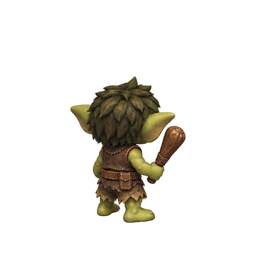
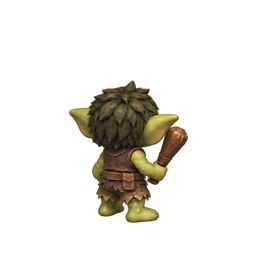
Simplify goblin and bat faces using user reference

Changed region(s): [[0.25, 0.2812, 0.75, 0.875]]

diff --git a/fushigi-monsters-v1/preview.html b/fushigi-monsters-v1/preview.html
@@ -5,14 +5,14 @@
 *{box-sizing:border-box}body{margin:0;background:#10171e;color:#e8edf0;font:15px/1.65 system-ui,sans-serif}main{max-width:1100px;margin:auto;padding:24px 16px 50px}h1{font-size:24px;margin:0 0 6px}h2{font-size:19px}p{color:#b7c5ce;margin:8px 0 18px}a{color:#8ad4e8}button,select{font:inherit;background:#243340;color:inherit;border:1px solid #526573;border-radius:7px;padding:9px 12px;cursor:pointer}button[aria-pressed=true]{background:#776232;border-color:#d4b568}.controls{display:flex;gap:10px;align-items:center;flex-wrap:wrap;margin:15px 0}.directions{display:flex;gap:5px;flex-wrap:wrap}.stageWrap{overflow-x:auto;max-width:100%;border-radius:10px}canvas{display:block;width:960px;max-width:none;height:350px;border-radius:10px;border:1px solid #3b4a54}.panel{background:#19232c;border:1px solid #354550;border-radius:12px;padding:16px;margin:18px 0}.grid{display:grid;grid-template-columns:repeat(4,minmax(0,1fr));gap:8px}.cell{background:#293540;border-radius:8px;text-align:center;overflow:hidden}.cell img{display:block;width:100%;height:auto}.cell span{display:block;font-size:12px;padding:3px 0 8px}.small{font-size:13px}.status{color:#dfc584}.tileSize{width:65px}label{display:flex;gap:7px;align-items:center}@media(max-width:500px){main{padding:17px 10px}h1{font-size:21px}.panel{padding:10px}.controls{gap:7px}.grid{gap:6px;grid-template-columns:repeat(2,minmax(0,1fr))}button,select{padding:8px}.cell span{font-size:10px}}
 </style>
 <main>
-<div class="status small">待機基準絵の初版 · 本編統合前</div><h1>モンスター、最初の3種</h1>
+<div class="status small">顔を簡略化した修正版 · 本編統合前</div><h1>モンスター、最初の3種</h1>
 <p>スライム・ゴブリン・コウモリ。承認済み主人公と同じカメラで、大きさと8方向の見た目を確認できます。</p>
-<div class="controls"><label>背景 <select id="theme"><option value="limestone">鍾乳洞</option><option value="forest">樹林</option><option value="ruins">風化遺跡</option><option value="ice">氷晶洞</option><option value="volcano">火山洞</option></select></label><label>表示 <select id="zoom"><option value="1">実ゲーム相当（1マス64px）</option><option value="2">2倍</option></select></label><button id="rotate" aria-pressed="false">方向を自動切替</button></div>
+<div class="controls"><label>顔 <select id="faceStyle"><option value="current">修正版：簡略化した顔</option><option value="before">初版：色付きの虹彩</option></select></label><label>背景 <select id="theme"><option value="limestone">鍾乳洞</option><option value="forest">樹林</option><option value="ruins">風化遺跡</option><option value="ice">氷晶洞</option><option value="volcano">火山洞</option></select></label><label>表示 <select id="zoom"><option value="1">実ゲーム相当（1マス64px）</option><option value="2">2倍</option></select></label><button id="rotate" aria-pressed="false">方向を自動切替</button></div>
 <div id="dirs" class="directions"></div>
 <p class="small">S＝手前、N＝奥、E＝右、W＝左。自動切替は静止画の向き比較です。歩行・攻撃のアニメーションは次の工程です。</p>
 <div class="stageWrap"><canvas id="stage" width="960" height="350" aria-label="洞窟の床に主人公とモンスター3種を並べた比較"></canvas></div><p class="small">スマートフォンでは左右にスワイプして比較できます。表示サイズは縮小していません。</p><p id="status" class="small" role="status">画像を読み込んでいます…</p>
 <section class="panel"><div class="controls"><h2>8方向の拡大表示</h2><select id="kind"><option value="slime">スライム</option><option value="goblin">ゴブリン</option><option value="bat">コウモリ</option></select></div><div id="contact" class="grid"></div></section>
-<p class="small">スライム・コウモリは SE→SW、E→W、NE→NW を反転して制作コストを削減。ゴブリンは棍棒を右手に保つため8方向を個別に制作。床と主人公は既存の承認済み素材です。</p>
+<p class="small">修正版はゴブリン・コウモリの色付き虹彩を黒い楕円の目にし、口・鼻・牙を少ない形に整理しました。スライムは初版を維持しています。</p><p class="small">スライム・コウモリは SE→SW、E→W、NE→NW を反転して制作コストを削減。ゴブリンは棍棒を右手に保つため8方向を個別に制作。床と主人公は既存の承認済み素材です。</p>
 <p class="small"><a href="../index.html">現在の本編</a> · <a href="README.md">制作記録</a> · <a href="monsters.json">スプライト情報</a></p>
 </main>
 <script>
@@ -20,7 +20,7 @@
 const D=['S','SW','W','NW','N','NE','E','SE'],names={slime:'スライム',goblin:'ゴブリン',bat:'コウモリ'},imgs={},canvas=document.querySelector('#stage'),g=canvas.getContext('2d');
 let face='SE',ready=false,auto=false,last=0,error=null;
 const load=path=>new Promise((resolve,reject)=>{const im=new Image();im.onload=()=>resolve(im);im.onerror=()=>reject(Error('画像を読み込めません: '+path));im.src=path;});
-function grid(){document.querySelector('#contact').replaceChildren(...D.map(d=>{const el=document.createElement('div');el.className='cell';const im=new Image();im.src='assets/'+kind.value+'/'+d+'.png';im.alt=names[kind.value]+' '+d;const label=document.createElement('span');label.textContent=d+((kind.value!=='goblin'&&['SW','W','NW'].includes(d))?' · 反転':'');el.append(im,label);return el;}));}
+function grid(){document.querySelector('#contact').replaceChildren(...D.map(d=>{const el=document.createElement('div');el.className='cell';const im=new Image();im.src=(faceStyle.value==='before'?'before-face-v2/':'assets/')+kind.value+'/'+d+'.png';im.alt=names[kind.value]+' '+d;const label=document.createElement('span');label.textContent=d+((kind.value!=='goblin'&&['SW','W','NW'].includes(d))?' · 反転':'');el.append(im,label);return el;}));}
 function buttons(){document.querySelector('#dirs').replaceChildren(...D.map(d=>{const b=document.createElement('button');b.textContent=d;b.setAttribute('aria-pressed',String(d===face));b.onclick=()=>{face=d;buttons();draw();};return b;}));}
 function draw(){
  if(!ready)return;
@@ -30,15 +30,15 @@ function draw(){
  for(let y=70;y<330;y+=pitch)for(let x=0;x<960;x+=ts)g.drawImage(imgs[id],x,y,ts,pitch);
  const baseline=260,positions=[160,380,590,800],entries=[['hero','主人公'],...Object.entries(names)];
  entries.forEach(([k,n],i)=>{const x=positions[i];g.fillStyle='rgba(0,0,0,.3)';g.beginPath();g.ellipse(x,baseline,ts*(k==='slime'?.34:.25),ts*.09,0,0,Math.PI*2);g.fill();
- const scale=ts*1.5/192;g.drawImage(imgs[k+':'+face],x-128*scale,baseline-224*scale,256*scale,256*scale);
+ const scale=ts*1.5/192;g.drawImage(imgs[(k==='hero'?'hero':(faceStyle.value==='before'?'before-':'')+k)+':'+face],x-128*scale,baseline-224*scale,256*scale,256*scale);
  });g.restore();
  entries.forEach(([k,n],i)=>{g.fillStyle='#ecf0f2';g.font='16px system-ui';g.textAlign='center';g.fillText(n,positions[i],327);});
  g.textAlign='left';g.fillStyle='#deca94';g.font='14px system-ui';g.fillText(face+' / 1マス '+ts+'px / 主人公の高さ '+(ts*1.5)+'px',20,32);
 }
-const theme=document.querySelector('#theme'),zoom=document.querySelector('#zoom'),kind=document.querySelector('#kind');
-theme.onchange=zoom.onchange=draw;kind.onchange=grid;document.querySelector('#rotate').onclick=()=>{auto=!auto;document.querySelector('#rotate').setAttribute('aria-pressed',String(auto));};
+const faceStyle=document.querySelector('#faceStyle'),theme=document.querySelector('#theme'),zoom=document.querySelector('#zoom'),kind=document.querySelector('#kind');
+faceStyle.onchange=()=>{grid();draw();};theme.onchange=zoom.onchange=draw;kind.onchange=grid;document.querySelector('#rotate').onclick=()=>{auto=!auto;document.querySelector('#rotate').setAttribute('aria-pressed',String(auto));};
 buttons();grid();
-Promise.all([...Object.keys(names),'hero'].flatMap(k=>D.map(async d=>{imgs[k+':'+d]=await load(k==='hero'?'../fushigi-direction-base/assets/hero-base/'+d+'.png':'assets/'+k+'/'+d+'.png');})).concat(['forest','limestone','ruins','ice','volcano'].map(async id=>{imgs[id]=await load('../assets/dungeon/locations-v1/'+id+'/floor1.webp');}))).then(()=>{ready=true;document.querySelector('#status').textContent='3種 × 8方向を読み込みました。主人公の足元と同じ原点で表示しています。';draw();}).catch(e=>{error=e.message;document.querySelector('#status').textContent=error;console.error(e);});
+Promise.all([...Object.keys(names),...Object.keys(names).map(k=>'before-'+k),'hero'].flatMap(k=>D.map(async d=>{imgs[k+':'+d]=await load(k==='hero'?'../fushigi-direction-base/assets/hero-base/'+d+'.png':(k.startsWith('before-')?'before-face-v2/'+k.slice(7):'assets/'+k)+'/'+d+'.png');})).concat(['forest','limestone','ruins','ice','volcano'].map(async id=>{imgs[id]=await load('../assets/dungeon/locations-v1/'+id+'/floor1.webp');}))).then(()=>{ready=true;document.querySelector('#status').textContent='3種 × 8方向を読み込みました。主人公の足元と同じ原点で表示しています。';draw();}).catch(e=>{error=e.message;document.querySelector('#status').textContent=error;console.error(e);});
 function tick(t){if(auto&&t-last>850){last=t;face=D[(D.indexOf(face)+1)%8];buttons();draw();}requestAnimationFrame(tick);}requestAnimationFrame(tick);
 window.MonsterReview={get ready(){return ready;},get error(){return error;},setDirection(d){if(!D.includes(d))throw Error(d);face=d;buttons();draw();}};
 </script></html>

diff --git a/fushigi-monsters-v1/build.py b/fushigi-monsters-v1/build.py
@@ -6,8 +6,8 @@ P=Path(__file__).resolve().parent
 D=['S','SW','W','NW','N','NE','E','SE']
 CONFIG={
  'slime':dict(name='スライム',cols=5,rows=1,dirs=['S','SE','E','NE','N'],height=92,anchor=224),
- 'goblin':dict(name='ゴブリン',cols=4,rows=2,dirs=D,height=154,anchor=224),
- 'bat':dict(name='コウモリ',cols=5,rows=1,dirs=['S','SE','E','NE','N'],height=112,anchor=196,cuts=[0,490,930,1250,1700,2172]),
+ 'goblin':dict(name='ゴブリン',cols=4,rows=2,dirs=D,height=154,anchor=224,source='faces-v2/goblin.png'),
+ 'bat':dict(name='コウモリ',cols=5,rows=1,dirs=['S','SE','E','NE','N'],height=112,anchor=196,cuts=[0,501,940,1235,1677,2172],source='faces-v2/bat.png'),
 }
 def sha(p):return hashlib.sha256(p.read_bytes()).hexdigest()
 def clean(im):
@@ -28,14 +28,14 @@ def clean(im):
     from PIL import ImageChops
     a=ImageChops.multiply(a,mask.filter(MaxFilter(5)));im.putalpha(a)
     return im
-meta={'version':1,'status':'idle-base-review; not approved; not integrated','frameSize':256,'origin':[128,224],'heroHeight':192,'directions':D,'monsters':{}}
+meta={'version':2,'status':'simplified-monster-face-review; not approved; not integrated','frameSize':256,'origin':[128,224],'heroHeight':192,'directions':D,'monsters':{}}
 for kind,cfg in CONFIG.items():
-    src=P/'source-art'/f'{kind}.png';sheet=Image.open(src).convert('RGBA');cells={}
+    src=P/'source-art'/cfg.get('source',f'{kind}.png');sheet=Image.open(src).convert('RGBA');cells={}
     for i,d in enumerate(cfg['dirs']):
         x=i%cfg['cols'];y=i//cfg['cols'];w,h=sheet.size
         cuts=cfg.get('cuts');cell=sheet.crop((cuts[x] if cuts else round(x*w/cfg['cols']),round(y*h/cfg['rows']),cuts[x+1] if cuts else round((x+1)*w/cfg['cols']),round((y+1)*h/cfg['rows'])))
         cell=clean(cell);bbox=cell.getchannel('A').point(lambda a:255 if a>=48 else 0).getbbox()
-        if kind=='goblin' and d=='SE':
+        if kind=='goblin' and d=='SE' and not cfg.get('source'):
             # Regenerated SE right-hand fix at higher resolution. Normalize once to
             # the original sheet's physical height before the shared species scale.
             fixed=clean(Image.open(P/'source-art'/'goblin-SE-fixed.png').convert('RGBA'))
@@ -52,13 +52,13 @@ for kind,cfg in CONFIG.items():
         crop=crop.resize((round(crop.width*scale),round(crop.height*scale)),Image.Resampling.LANCZOS)
         frame=Image.new('RGBA',(256,256));frame.alpha_composite(crop,(128-crop.width//2,cfg['anchor']-crop.height));frame.save(out/f'{d}.png')
         records[d]={'source':d,'mirror':False,'path':f'assets/{kind}/{d}.png','sha256':sha(out/f'{d}.png')}
-        if kind=='goblin' and d=='SE':records[d]['override']={'source':'source-art/goblin-SE-fixed.png','sha256':sha(P/'source-art'/'goblin-SE-fixed.png'),'reason':'Correct club from left to anatomical right hand'}
+        if kind=='goblin' and d=='SE' and not cfg.get('source'):records[d]['override']={'source':'source-art/goblin-SE-fixed.png','sha256':sha(P/'source-art'/'goblin-SE-fixed.png'),'reason':'Correct club from left to anatomical right hand'}
     if kind!='goblin':
         for d,s in [('SW','SE'),('W','E'),('NW','NE')]:
             # Reflect about x=128, keeping the same exact foot anchor (not x=127.5).
             im=Image.open(out/f'{s}.png');flipped=ImageOps.mirror(im);frame=Image.new('RGBA',(256,256));frame.alpha_composite(flipped,(1,0));frame.save(out/f'{d}.png')
             records[d]={'source':s,'mirror':True,'path':f'assets/{kind}/{d}.png','sha256':sha(out/f'{d}.png')}
-    meta['monsters'][kind]={'name':cfg['name'],'scale':scale,'bodyHeight':cfg['height'],'visualBottom':cfg['anchor'],'source':f'source-art/{kind}.png','sourceSha256':sha(src),'views':records}
+    meta['monsters'][kind]={'name':cfg['name'],'scale':scale,'bodyHeight':cfg['height'],'visualBottom':cfg['anchor'],'source':str(src.relative_to(P)),'sourceSha256':sha(src),'views':records}
     contact=Image.new('RGB',(256*4,288*2),'#26313d');dr=ImageDraw.Draw(contact)
     for i,d in enumerate(D):
         x=i%4*256;y=i//4*288;im=Image.open(out/f'{d}.png');contact.paste(im,(x,y),im);dr.line((x+90,y+224,x+166,y+224),fill='#d7ba73');dr.text((x+12,y+260),d+(' mirrored' if records[d]['mirror'] else ''),fill='white')

diff --git a/fushigi-monsters-v1/check.py b/fushigi-monsters-v1/check.py
@@ -23,6 +23,11 @@ with sync_playwright() as p:
         page.goto('http://127.0.0.1:8000/fushigi-monsters-v1/preview.html');page.wait_for_function('MonsterReview.ready || MonsterReview.error');assert page.evaluate('MonsterReview.ready'),page.evaluate('MonsterReview.error')
         for kind in m['monsters']:
             page.select_option('#kind',kind);page.wait_for_function('Array.from(document.querySelectorAll("#contact img")).every(i=>i.complete && i.naturalWidth===256)')
+        for style in ['before','current']:
+            page.select_option('#faceStyle',style)
+            page.wait_for_function('Array.from(document.querySelectorAll("#contact img")).every(i=>i.complete && i.naturalWidth===256)')
+            prefix='before-face-v2/' if style=='before' else 'assets/'
+            assert page.locator('#contact img').first.get_attribute('src').startswith(prefix)
         for theme in ['forest','limestone','ruins','ice','volcano']:page.select_option('#theme',theme)
         page.select_option('#theme','limestone');page.select_option('#kind','goblin')
         for d in m['directions']:page.evaluate('(d)=>MonsterReview.setDirection(d)',d)
@@ -32,7 +37,7 @@ with sync_playwright() as p:
         page.locator('#stage').screenshot(path=str(P/f'stage-{name}.png'))
         page.locator('#rotate').click();page.wait_for_function('document.querySelector("#dirs button[aria-pressed=true]").textContent!=="SE"');page.locator('#rotate').click()
         assert not errors and not failures,(errors,failures)
-        report['browsers'].append({'name':name,'viewport':[w,h],'ready':True,'errors':errors,'failedRequests':failures,'noPageOverflow':True,'floorThemes':5,'directions':8})
+        report['browsers'].append({'name':name,'viewport':[w,h],'ready':True,'errors':errors,'failedRequests':failures,'noPageOverflow':True,'floorThemes':5,'directions':8,'faceVersions':2})
         page.close()
     browser.close()
 (P/'validation.json').write_text(json.dumps(report,ensure_ascii=False,indent=2)+'\n')

diff --git a/fushigi-monsters-v1/README.md b/fushigi-monsters-v1/README.md
@@ -2,6 +2,14 @@
 
 2026-10-20。スライム・ゴブリン・コウモリの待機8方向を制作した初版。ユーザー確認前で、本編の敵描画にはまだ接続していない。歩行・攻撃は基準絵の確認後に制作する。
 
+## 顔の簡略化（最新修正）
+
+ユーザーから「敵らしい目や顔つきにし、可愛い系統でも添付画像くらい簡略化してほしい」との指摘。ゴブリン・コウモリの色付き虹彩・細かいまぶた・表情を除き、黒い楕円の目、小さな白いハイライト、短い口、単純な牙に整理した。黄色い丸いモンスターの添付は顔の情報量の参考にし、色や体型はコピーしない。スライムは初版から簡潔な顔のためそのまま。
+
+修正原画は `source-art/faces-v2/`、生成2回の参照とプロンプトは同フォルダの `generation-record.json`。ゴブリンはSE右手修正を反映したシートから編集した。初版原画も保持。現在の `build.py` は顔修正シートを読み、同種内共通倍率で登録する。ゴブリンの棍棒の持ち手とコウモリの左右反転も維持。初版画像は `before-face-v2/` に保存し、確認画面の「顔」で修正版と初版を切り替えられる。画像生成でシートを編集したため、顔以外にも描き直しによる小差分がある。
+
+24画像と6反転一致、初版/修正版切替、床5種、8方向、3画面寸法を再検証。顔の採用はユーザー確認待ち。
+
 確認画面: `preview.html`。主人公と同じ実寸、5ロケーションの床、8方向、2倍表示、方向の自動切替（静止画比較）を用意した。スマートフォンでは比較ステージを横にスクロールできる。
 
 ## 制作基準
@@ -9,9 +17,9 @@
 - 承認済み主人公 `fushigi-direction-base/assets/hero-base/SE.png` を画風の参照にし、約26度の平行投影で簡易3Dガイドを制作。
 - 各画像256×256 RGBA。地面原点(128,224)。本編と同じ1マス64px・主人公の頭頂〜足元96pxで比較する。画像全体を96pxに縮める方式ではない。
 - スライムは高さ約46px、ゴブリン約77px、コウモリ約56px。コウモリは地面原点より14px上に浮く。体格は今回の提案であり承認待ち。
-- スライム・コウモリは S / SE / E / NE / N を生成し、SE→SW、E→W、NE→NWを水平反転して8方向に展開。ユーザーによる反転許可を適用。実際の生成原画は計18方向、納品は24方向。
+- スライム・コウモリは S / SE / E / NE / N を生成し、SE→SW、E→W、NE→NWを水平反転して8方向に展開。ユーザーによる反転許可を適用。初版の方向シートは計18方向、納品は24方向。後から顔修正シートを追加。
 - ゴブリンは右手の棍棒を維持するため8方向を個別生成。初版SEだけ左手になっていたため、SEの3Dガイドと元原画を参照して単独で修正した。
-- 同一種のシートは共通倍率。SE修正原画のみ解像度が異なるため、元シートの体高へ一度合わせてから共通倍率を適用。方向ごとの隠れた伸縮や揺れで補正しない。
+- 同一種のシートは共通倍率。初版ではSE修正原画のみ解像度が異なるため、元シートの体高へ一度合わせてから共通倍率を適用した。顔修正版は修正済みSEを含むシートを一括登録する。方向ごとの隠れた伸縮や揺れで補正しない。
 - 原画の孤立したアルファノイズを除去し、アンチエイリアスを保持。コウモリの翼が均等セル境界を越えていたため、余白の実際の位置で切り分けた。
 
 ## ファイル

diff --git a/docs/SPRITE_PRODUCTION_HANDOVER.md b/docs/SPRITE_PRODUCTION_HANDOVER.md
@@ -2,6 +2,8 @@
 
 ## モンスター待機基準絵（2026-10-20・最新）
 
+**顔の簡略化**：ユーザー添付を顔の情報量の参考に、ゴブリン・コウモリの虹彩を黒い楕円の目へ変更し、口と牙を整理。詳細な人間の子供風の目を避ける。スライムは維持。`source-art/faces-v2/` に参照・修正原画・生成記録、`before-face-v2/` に初版画像を保持。プレビューで初版と修正版を切り替えられる。PR #6は未マージ、顔の採用確認待ち。歩行や攻撃を量産する前にこの方向性を確定する。
+
 `fushigi-monsters-v1/` にスライム・ゴブリン・コウモリを追加。主人公と同じ約26度のカメラ、256×256 RGBA、地面原点(128,224)。ユーザーはモンスターの左右斜め等について反転での制作コスト削減を許可。スライム・コウモリは5方向原画から8方向に展開し、右手棍棒のゴブリンのみ8方向を描いた。初版SEで持ち手が逆になったため、方向ガイドと元原画参照で修正済み。待機基準絵はまだ承認前で、歩行・攻撃・本編接続は次工程。原画・3Dガイド・生成記録・切り出し・メタデータ・比較画面・検証結果を同梱。承認済み主人公の反転禁止・装備仕様は変わらない。
 
 ## 歩行・道具使用モーション（最新）

diff --git a/docs/HANDOVER.md b/docs/HANDOVER.md
@@ -2,6 +2,8 @@
 
 ## モンスター制作開始（2026-10-20・最新）
 
+**顔の最新修正**：ユーザーは敵の顔を、添付の黄色い丸いモンスター程度に簡略化するよう指示。ゴブリン・コウモリの色付き虹彩と細かい表情を除き、黒い楕円の目・小さな白ハイライト・短い口・単純な牙へ変更。スライムの簡潔な顔は維持。確認画面の「顔」で初版/修正版を比較できる。制作ブランチ `art/monsters-idle-v1`、PR #6（未マージ）。8方向の基準絵は引き続き承認待ち。
+
 ユーザーの指示でスライムと追加2種（ゴブリン・コウモリ）の制作を開始。`fushigi-monsters-v1/` に待機基準絵24枚と比較画面を追加。左右の反転はユーザーが制作コスト削減のため許可。スライム・コウモリは5原画→8方向、ゴブリンは右手棍棒のため8原画。SEの持ち手を個別に修正した。承認済み主人公との実寸比較・床5種・拡大・全方向を確認できる。初版はユーザー確認前。本編統合・歩行・攻撃は次工程。承認済みキャラ・武器12・盾10、統合済みモーション、PR #5までの壁は現状を維持。詳細は `fushigi-monsters-v1/README.md`。更新ごとに確認リンクを送る。
 
 ## 壁の部分占有（最新）
